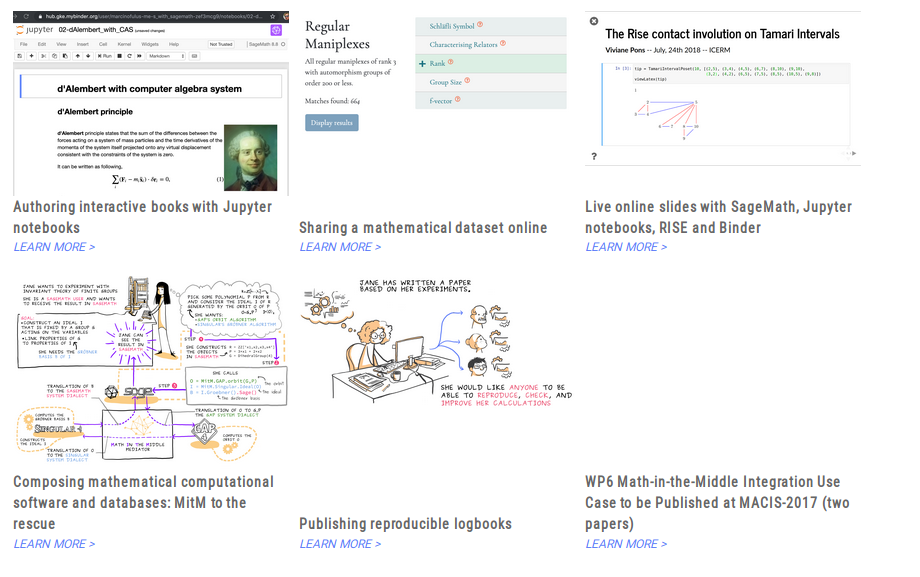
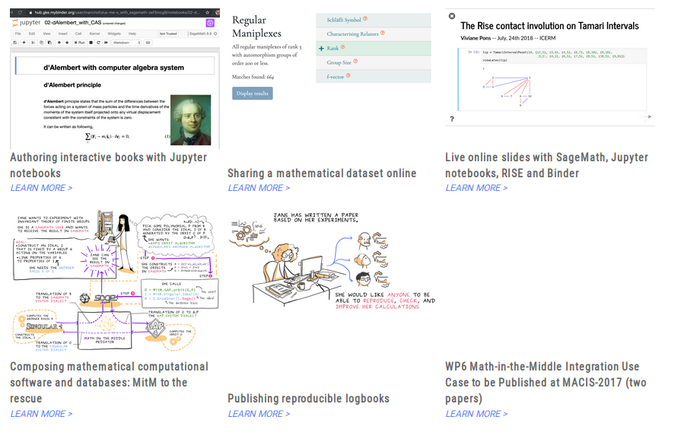
update WP2 slides

Changed region(s): [[0.75, 0.8588, 0.78, 0.8884], [0.15, 0.8588, 0.18, 0.8884]]

diff --git a/meetings/2019-10-30-Luxembourg/ProjectReview/WP2.md b/meetings/2019-10-30-Luxembourg/ProjectReview/WP2.md
@@ -24,13 +24,15 @@ This workpackage has been the **link** between the work we do at OpenDreamKit an
 ---
 ## Communication
 
-**How to convey what has been done by the OpenDreamKit project?** We describe technical solutions through various use cases.
+**How to convey what has been done by the OpenDreamKit project?** 
+
+We describe technical solutions through various use cases.
 
 ![](../images/usecases.png)
 
 --
 
-![](/public/images/use-cases/reproducible_logbook_scenario.png)
+![](../images/MitM.png)
 
 --
 ## Communication
@@ -41,7 +43,7 @@ This workpackage has been the **link** between the work we do at OpenDreamKit an
 ---
 ## For teachers
 
- * Teaching with Jupyter (Southampton, Paris-Sud, Gent, Versailles, Silesia, USTAN, Sheffield)
+ * Teaching with Jupyter (Southampton, Paris-Sud, Gent, Versailles, Silesia, USTAN, Sheffield), **more than 5000 students**
  * Teaching material: interactive lecture material, 4 interactive textbooks, templates, etc.
  * Local consulting (especially at Sheffield)
  
@@ -164,16 +166,25 @@ of mathematical research skills among Nigerians and Africans.*
 ## Conclusion
 
  * We do more than organizing events, we foster a community
+ * We developped and shared technichal solutions for training sessions.
  * These events will continue after the end of the project, depending on local resources, other projects, etc.
+
  
 --
 ## Some remarks
 
- * These events **don't cost a lot** in terms of money
+ * These events **don't cost a lot** in terms of money. Ex: Women in Sage Archanes, lodging+food = 3000 euros, travels: 12000 euros)
  * But they cost in terms of **time** and **administration**
  * The easier the access to the money, the easier the admin, the easier it is to make these events accessible to those who really need them.
  
+## Difficulties
+
+ * admin for paying / reimbursing individual trips
+ * Visa 
+ 
 --
+
+**About 25 ODK members active in dissemination / workshop orga: 110 events, 1800 trainees**
 
 We need **active actions** to create diversity, we need **motivated people** and we need to **support them**.
 
